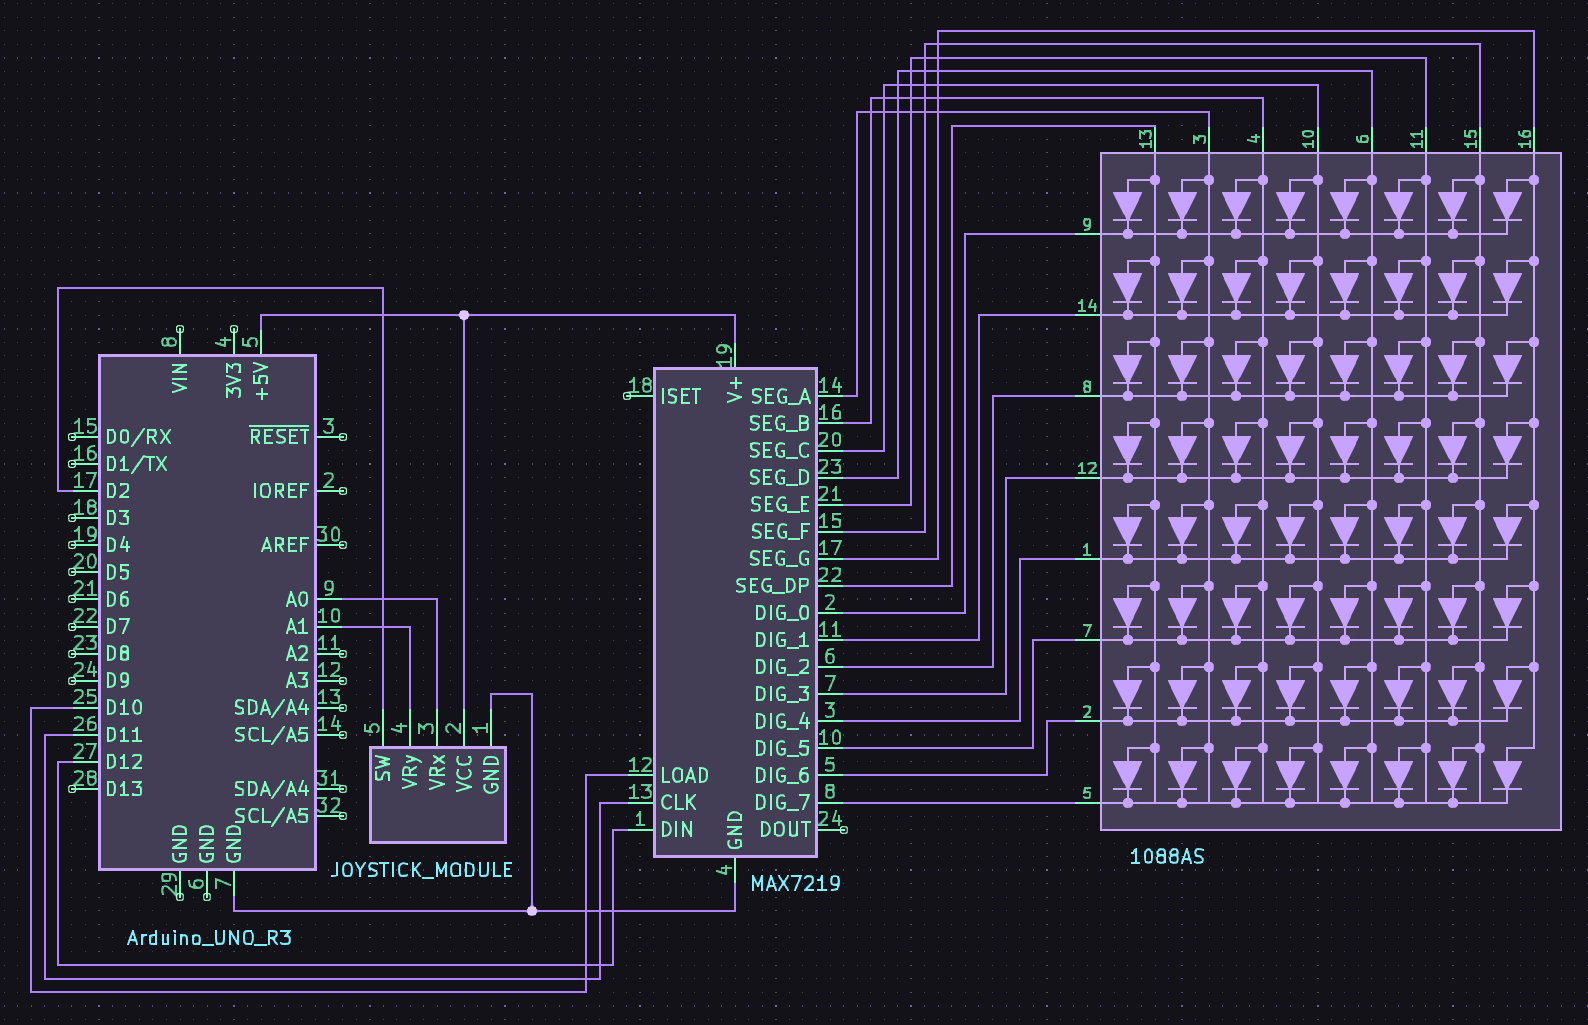
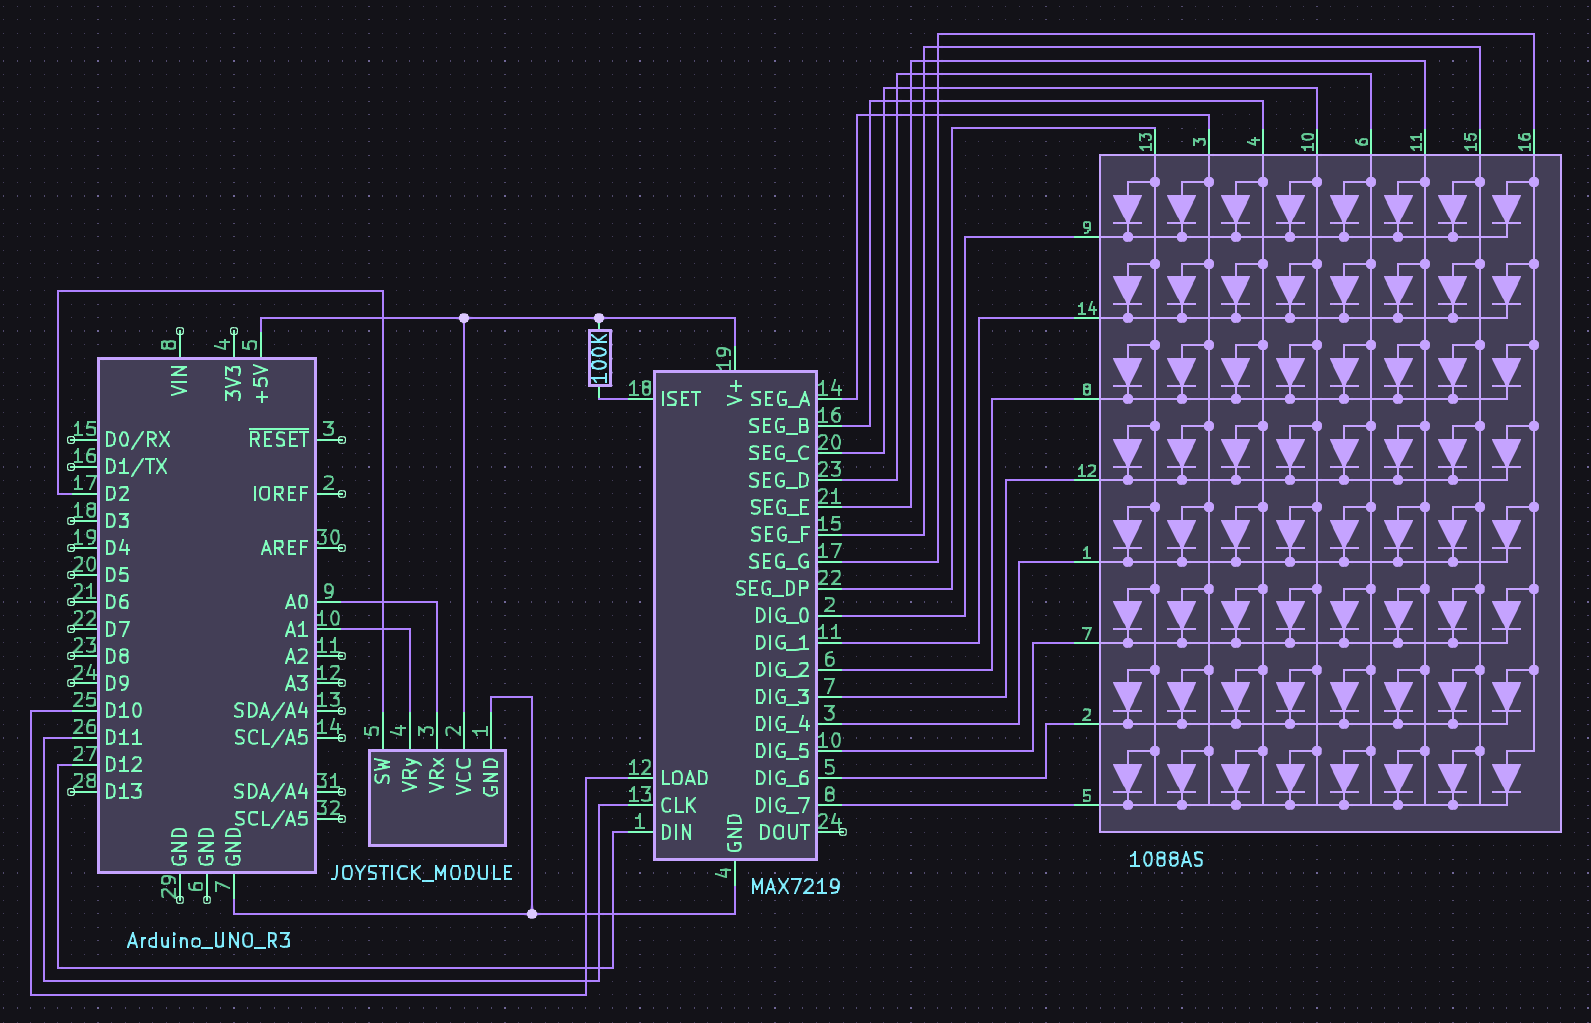
updated readme and schematic

Changed region(s): [[0.0309, 0.0303, 0.9874, 0.9697], [0.0309, 0.3939, 0.1234, 0.7879], [0.3086, 0.6667, 0.3394, 0.697]]

diff --git a/Homework_07/Homework_07.md b/Homework_07/Homework_07.md
@@ -1,0 +1,23 @@
+# Homework 7
+
+As a preparation for the matrix game project, I made a small version of the Bomberman game, with no enemies. For this assignment I also used classes, one for the player and one for the bombs. The walls are randomly generated and there's a gap for the player and the exit, as well as some extra walls around them.
+
+You spawn in the top left corner of the map. You lose if you get blown up by your bombs. You win if you get to the bottom right corner. Losing and winning will play an animation and will restart the game.
+
+## Components
+* 1x 8x8 LED matrix
+* 1x MAX7219 IC
+* 1x joystick module
+* 1x 10K resistor
+* 1x 10μF capacitor
+* 1x 0.1μF capacitor
+
+## Setup
+
+![schematic of my setup](/Homework_07/schematic.png)
+
+![picture of my setup](/Homework_07/setup.jpg)
+
+## Video
+
+[Demonstration](https://youtu.be/qMhL26EMpQQ)

diff --git a/README.md b/README.md
@@ -47,3 +47,11 @@ The task was to implement a stopwatch that counts in tenths of a second with 3 b
 This task involves simulating a pseudo-smart system monitor, with an interactive menu controlled through Serial I/O.
 
 ![picture of setup](/Homework_06/setup.jpg)
+
+# Homework 7
+
+[:page_facing_up: Assignment details](Homework_07/Homework_07.md)
+
+For this assignment I made a small version of the Bomberman game with no enemies.
+
+![picture of setup](/Homework_07/setup.jpg)
